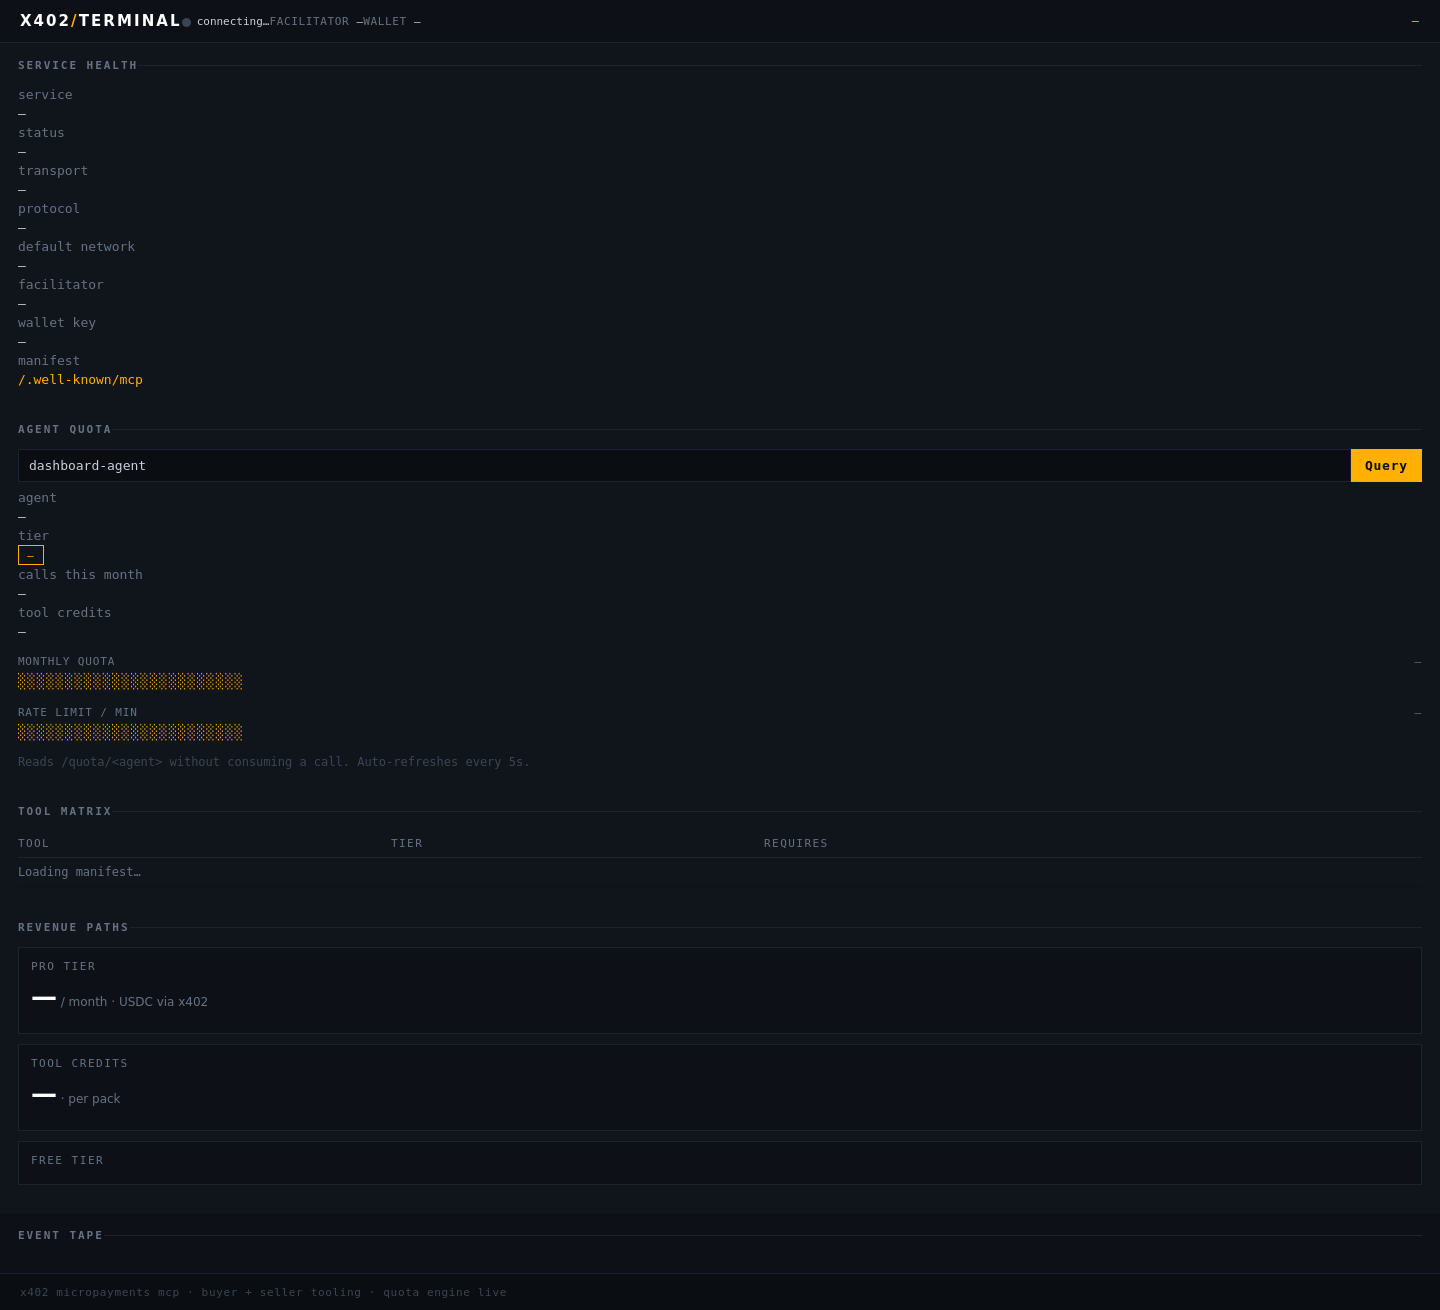
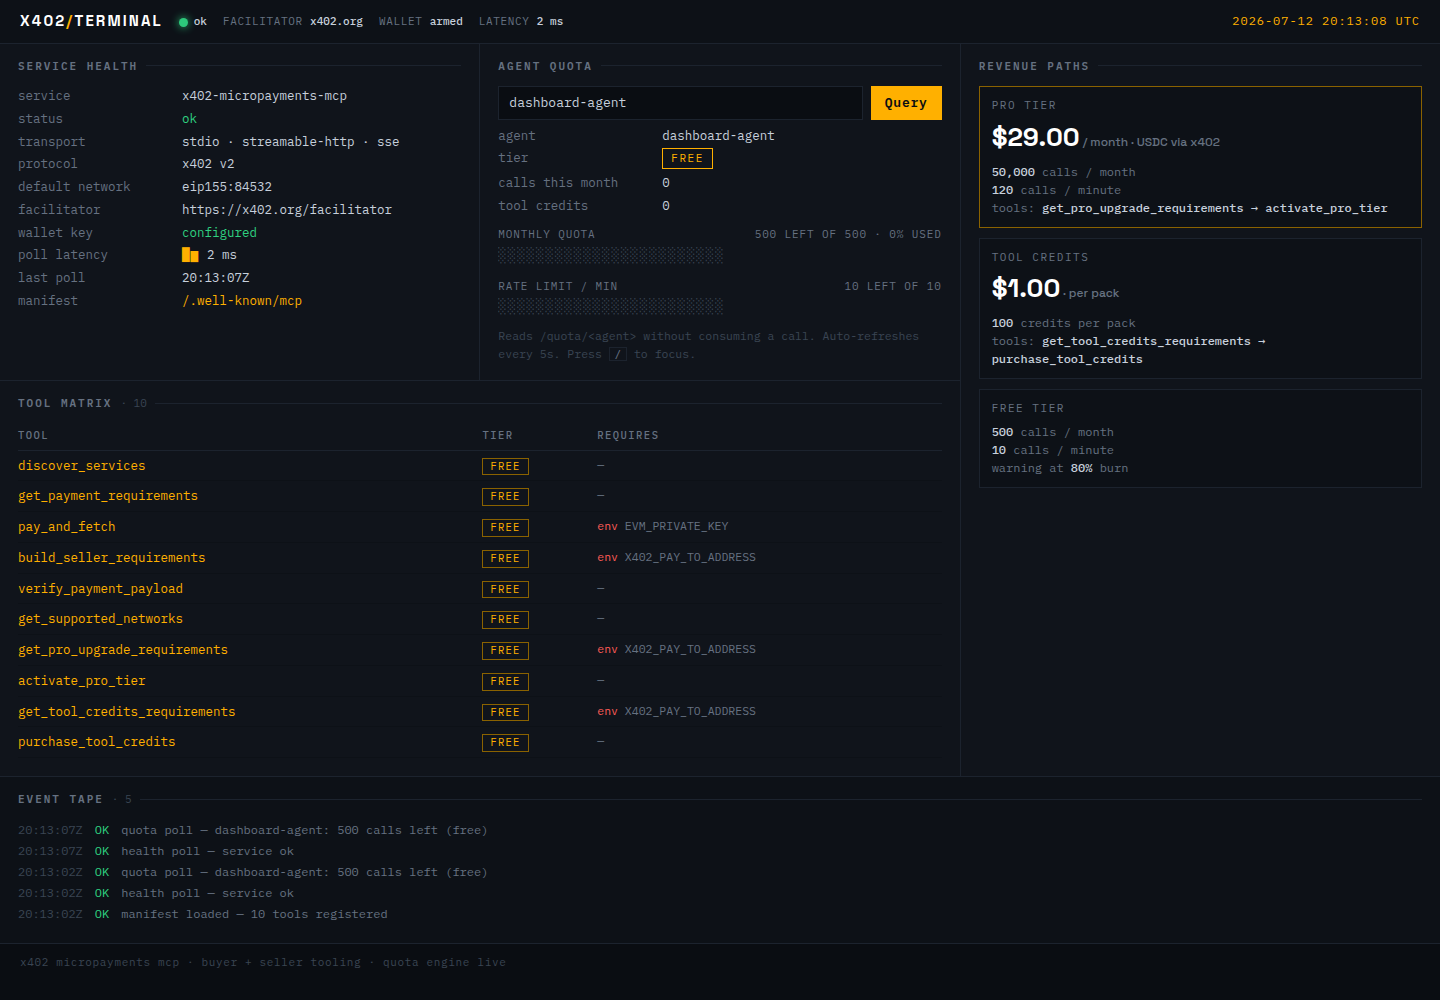
feat(dashboard): live latency sparkline, manifest-driven tier thresholds, UX polish
- Time /health polls; show latency in header plus block-character sparkline
  and last-poll timestamp in Service Health
- Read rate-limit totals and quota warning threshold from manifest tiers per
  the queried agent's tier (was hardcoded free-tier values), so meters stay
  correct after pro upgrade
- Meters gain half-step resolution and percent-used readout
- Tool matrix: colored tier chips, tool count, row hover
- Event tape: pause-on-hover with buffered flush, event counter
- Offline state dims the board; '/' focuses agent input; refreshed
  dashboard_preview.png from live render

diff --git a/app/dashboard.py b/app/dashboard.py
@@ -2,7 +2,9 @@
 
 Zero build step: inline CSS/JS, polls the live API (/health, /quota/{agent},
 /.well-known/mcp, /upgrade). Amber-on-ink Bloomberg-terminal lineage; block
-character meters; live event tape driven by real polling events.
+character meters and sparklines; live event tape driven by real polling events.
+Tier thresholds (rate limit, quota warning) come from the manifest, not
+hardcoded — the UI adapts when the agent upgrades to pro.
 """
 
 DASHBOARD_HTML = r"""<!DOCTYPE html>
@@ -10,6 +12,7 @@ DASHBOARD_HTML = r"""<!DOCTYPE html>
 <head>
 <meta charset="utf-8">
 <meta name="viewport" content="width=device-width, initial-scale=1">
+<meta name="color-scheme" content="dark">
 <title>x402 terminal</title>
 <link rel="preconnect" href="https://fonts.googleapis.com">
 <link rel="preconnect" href="https://fonts.gstatic.com" crossorigin>
@@ -47,10 +50,14 @@ header{
 .lamp.ok{background:var(--green);box-shadow:0 0 8px var(--green);animation:pulse 2.4s infinite}
 .lamp.err{background:var(--red);box-shadow:0 0 8px var(--red)}
 @keyframes pulse{50%{opacity:.55}}
-@media (prefers-reduced-motion:reduce){.lamp.ok{animation:none}.tape-line{animation:none!important}}
+@media (prefers-reduced-motion:reduce){.lamp.ok{animation:none}.tape-line{animation:none!important}body.offline main{transition:none}}
 .bar-item{color:var(--dim);font-size:11px;letter-spacing:.06em;text-transform:uppercase}
 .bar-item strong{color:var(--text);font-weight:500;text-transform:none;letter-spacing:0}
 #clock{margin-left:auto;color:var(--amber);font-size:12px;letter-spacing:.08em}
+
+/* offline: dim the board, keep the header readable */
+body.offline main{opacity:.45;transition:opacity .4s ease}
+body.offline #svc-status{color:var(--red)}
 
 /* ---- grid ---- */
 main{display:grid;gap:1px;background:var(--line);
@@ -70,12 +77,14 @@ section{background:var(--panel);padding:14px 18px 18px;min-width:0}
 h2{font-size:11px;font-weight:600;letter-spacing:.18em;text-transform:uppercase;
   color:var(--dim);margin-bottom:12px;display:flex;align-items:center;gap:8px}
 h2::after{content:"";flex:1;height:1px;background:var(--line)}
+h2 .count{color:var(--faint);letter-spacing:0;font-weight:400}
 
 /* ---- key/value rows ---- */
 .kv{display:grid;grid-template-columns:150px 1fr;gap:4px 14px;font-size:12.5px}
 .kv dt{color:var(--dim)}
 .kv dd{color:var(--text);overflow-wrap:anywhere}
 .kv dd.on{color:var(--green)} .kv dd.off{color:var(--red)}
+.spark{color:var(--amber);letter-spacing:1px;margin-right:8px}
 
 /* ---- quota meters ---- */
 .meter-label{display:flex;justify-content:space-between;color:var(--dim);
@@ -94,6 +103,7 @@ h2::after{content:"";flex:1;height:1px;background:var(--line)}
   font-weight:600;padding:6px 14px;cursor:pointer;letter-spacing:.06em}
 .agent-row button:hover{background:#ffc233}
 .hint{color:var(--faint);font-size:11.5px;margin-top:10px}
+.hint kbd{border:1px solid var(--line);padding:0 5px;font-size:10.5px;color:var(--dim)}
 
 /* ---- tools table ---- */
 table{width:100%;border-collapse:collapse;font-size:12.5px}
@@ -101,14 +111,19 @@ th{color:var(--dim);font-weight:500;text-align:left;font-size:10.5px;
   letter-spacing:.14em;text-transform:uppercase;padding:4px 10px 6px 0;
   border-bottom:1px solid var(--line)}
 td{padding:5px 10px 5px 0;border-bottom:1px solid var(--panel-2);vertical-align:top}
+tbody tr:hover td{background:rgba(255,176,0,.05)}
 td.tool{color:var(--amber)}
 td.env{color:var(--dim);font-size:11.5px}
 td .req{color:var(--red)}
+.chip{display:inline-block;border:1px solid var(--amber-dim);color:var(--amber);
+  padding:0 7px;font-size:10.5px;letter-spacing:.12em;text-transform:uppercase}
+.chip.pro{border-color:var(--green);color:var(--green)}
 
 /* ---- revenue panel ---- */
 .price{font-family:"Space Grotesk",sans-serif;font-weight:700;font-size:26px;color:#fff}
 .price small{font-size:12px;color:var(--dim);font-weight:500}
 .rev-block{border:1px solid var(--line);padding:10px 12px;margin-bottom:10px;background:var(--panel-2)}
+.rev-block.featured{border-color:var(--amber-dim)}
 .rev-block .name{font-size:11px;letter-spacing:.14em;text-transform:uppercase;color:var(--dim);margin-bottom:4px}
 .rev-block ul{list-style:none;margin-top:6px;font-size:12px;color:var(--dim)}
 .rev-block li b{color:var(--text);font-weight:500}
@@ -120,6 +135,7 @@ td .req{color:var(--red)}
 .tape-line .t{color:var(--faint)}
 .tape-line .ok{color:var(--green)} .tape-line .err{color:var(--red)}
 .tape-line .msg{color:var(--dim)}
+#tape-paused{color:var(--amber);font-size:10px;letter-spacing:.14em;display:none}
 footer{padding:10px 20px;color:var(--faint);font-size:11px;letter-spacing:.06em}
 </style>
 </head>
@@ -129,6 +145,7 @@ footer{padding:10px 20px;color:var(--faint);font-size:11px;letter-spacing:.06em}
   <span class="bar-item"><span id="lamp" class="lamp"></span><strong id="svc-status">connecting…</strong></span>
   <span class="bar-item">facilitator <strong id="bar-facilitator">—</strong></span>
   <span class="bar-item">wallet <strong id="bar-wallet">—</strong></span>
+  <span class="bar-item">latency <strong id="bar-latency">—</strong></span>
   <span id="clock">—</span>
 </header>
 
@@ -143,6 +160,8 @@ footer{padding:10px 20px;color:var(--faint);font-size:11px;letter-spacing:.06em}
       <dt>default network</dt><dd id="h-network">—</dd>
       <dt>facilitator</dt><dd id="h-facilitator">—</dd>
       <dt>wallet key</dt><dd id="h-wallet">—</dd>
+      <dt>poll latency</dt><dd><span id="h-spark" class="spark" aria-hidden="true"></span><span id="h-latency">—</span></dd>
+      <dt>last poll</dt><dd id="h-lastpoll">—</dd>
       <dt>manifest</dt><dd><a href="/.well-known/mcp">/.well-known/mcp</a></dd>
     </dl>
   </section>
@@ -163,11 +182,11 @@ footer{padding:10px 20px;color:var(--faint);font-size:11px;letter-spacing:.06em}
     <div class="meter" id="q-quota-meter" aria-hidden="true">░░░░░░░░░░░░░░░░░░░░░░░░</div>
     <div class="meter-label"><span>Rate limit / min</span><span id="q-rate-num">—</span></div>
     <div class="meter" id="q-rate-meter" aria-hidden="true">░░░░░░░░░░░░░░░░░░░░░░░░</div>
-    <p class="hint">Reads /quota/&lt;agent&gt; without consuming a call. Auto-refreshes every 5s.</p>
+    <p class="hint">Reads /quota/&lt;agent&gt; without consuming a call. Auto-refreshes every 5s. Press <kbd>/</kbd> to focus.</p>
   </section>
 
   <section id="p-tools">
-    <h2>Tool matrix</h2>
+    <h2>Tool matrix <span class="count" id="tools-count"></span></h2>
     <table>
       <thead><tr><th>Tool</th><th>Tier</th><th>Requires</th></tr></thead>
       <tbody id="tools-body"><tr><td class="env" colspan="3">Loading manifest…</td></tr></tbody>
@@ -176,7 +195,7 @@ footer{padding:10px 20px;color:var(--faint);font-size:11px;letter-spacing:.06em}
 
   <section id="p-rev">
     <h2>Revenue paths</h2>
-    <div class="rev-block">
+    <div class="rev-block featured">
       <div class="name">Pro tier</div>
       <div class="price" id="r-pro-price">—<small> / month · USDC via x402</small></div>
       <ul id="r-pro-list"></ul>
@@ -193,7 +212,7 @@ footer{padding:10px 20px;color:var(--faint);font-size:11px;letter-spacing:.06em}
   </section>
 
   <section id="p-tape">
-    <h2>Event tape</h2>
+    <h2>Event tape <span class="count" id="tape-count"></span> <span id="tape-paused">⏸ paused</span></h2>
     <div id="tape" role="log" aria-live="polite"></div>
   </section>
 </main>
@@ -203,23 +222,62 @@ footer{padding:10px 20px;color:var(--faint);font-size:11px;letter-spacing:.06em}
 "use strict";
 const $ = (id) => document.getElementById(id);
 const BLOCKS = 24;
+const SPARK_CHARS = "▁▂▃▄▅▆▇█";
+const SPARK_LEN = 20;
 
-function tape(kind, msg){
+/* ---- event tape (pauses while hovered so lines can be read/copied) ---- */
+let tapeTotal = 0, tapePaused = false;
+const tapeBuffer = [];
+
+function tapeLine(kind, msg, ts){
   const line = document.createElement("div");
   line.className = "tape-line";
-  const t = new Date().toISOString().slice(11,19);
-  line.innerHTML = `<span class="t">${t}Z</span><span class="${kind}">${kind === "ok" ? "OK " : "ERR"}</span><span class="msg"></span>`;
+  line.innerHTML = `<span class="t">${ts}Z</span><span class="${kind}">${kind === "ok" ? "OK " : "ERR"}</span><span class="msg"></span>`;
   line.querySelector(".msg").textContent = msg;
   const el = $("tape");
   el.prepend(line);
   while (el.children.length > 60) el.removeChild(el.lastChild);
 }
 
-function meter(el, used, total){
+function tape(kind, msg){
+  tapeTotal += 1;
+  $("tape-count").textContent = `· ${tapeTotal}`;
+  const ts = new Date().toISOString().slice(11,19);
+  if (tapePaused){ tapeBuffer.push([kind, msg, ts]); return; }
+  tapeLine(kind, msg, ts);
+}
+
+$("tape").addEventListener("mouseenter", () => {
+  tapePaused = true;
+  $("tape-paused").style.display = "inline";
+});
+$("tape").addEventListener("mouseleave", () => {
+  tapePaused = false;
+  $("tape-paused").style.display = "none";
+  while (tapeBuffer.length) tapeLine(...tapeBuffer.shift());
+});
+
+/* ---- block meters (half-step resolution via ▒) ---- */
+function meter(el, used, total, warnAt){
   const safeTotal = Math.max(total, 1);
-  const filled = Math.min(BLOCKS, Math.round((used / safeTotal) * BLOCKS));
-  el.innerHTML = "▓".repeat(filled) + `<span class="rest">${"░".repeat(BLOCKS - filled)}</span>`;
-  el.classList.toggle("hot", used / safeTotal >= 0.8);
+  const exact = Math.min(1, used / safeTotal) * BLOCKS;
+  const filled = Math.floor(exact);
+  const half = exact - filled >= 0.5 && filled < BLOCKS ? 1 : 0;
+  el.innerHTML = "▓".repeat(filled) + "▒".repeat(half)
+    + `<span class="rest">${"░".repeat(BLOCKS - filled - half)}</span>`;
+  el.classList.toggle("hot", used / safeTotal >= (warnAt ?? 0.8));
+}
+
+/* ---- latency sparkline ---- */
+const latencies = [];
+function spark(ms){
+  latencies.push(ms);
+  if (latencies.length > SPARK_LEN) latencies.shift();
+  const max = Math.max(...latencies, 1);
+  $("h-spark").textContent = latencies
+    .map(v => SPARK_CHARS[Math.min(7, Math.round((v / max) * 7))]).join("");
+  $("h-latency").textContent = `${Math.round(ms)} ms`;
+  $("bar-latency").textContent = `${Math.round(ms)} ms`;
 }
 
 async function getJSON(path){
@@ -229,8 +287,11 @@ async function getJSON(path){
 }
 
 async function pollHealth(){
+  const t0 = performance.now();
   try{
     const h = await getJSON("/health");
+    spark(performance.now() - t0);
+    document.body.classList.remove("offline");
     $("lamp").className = "lamp ok";
     $("svc-status").textContent = h.status;
     $("h-service").textContent = h.service;
@@ -242,13 +303,18 @@ async function pollHealth(){
     $("h-wallet").textContent = w ? "configured" : "not configured (probe-only)";
     $("h-wallet").className = w ? "on" : "off";
     $("bar-wallet").textContent = w ? "armed" : "probe-only";
+    $("h-lastpoll").textContent = new Date().toISOString().slice(11,19) + "Z";
     tape("ok", "health poll — service ok");
   }catch(e){
+    document.body.classList.add("offline");
     $("lamp").className = "lamp err";
     $("svc-status").textContent = "unreachable";
     tape("err", e.message);
   }
 }
+
+/* tier config from the manifest; per-tier limits drive the meters */
+let tiers = null;
 
 async function pollQuota(){
   const agent = $("agent-input").value.trim();
@@ -260,12 +326,14 @@ async function pollQuota(){
     $("q-tier").className = "tier-badge" + (meta.tier === "pro" ? " pro" : "");
     $("q-calls").textContent = meta.calls_this_month;
     $("q-credits").textContent = meta.tool_credits_remaining;
+    const tier = tiers?.[meta.tier];
+    const warnAt = tier?.quota_warning_threshold ?? 0.8;
     const total = meta.calls_this_month + meta.quota_remaining;
-    $("q-quota-num").textContent = `${meta.quota_remaining} left of ${total}`;
-    meter($("q-quota-meter"), meta.calls_this_month, total);
-    const rateTotal = window.__rateLimit || meta.rate_limit_remaining;
-    $("q-rate-num").textContent = `${meta.rate_limit_remaining} left`;
-    meter($("q-rate-meter"), rateTotal - meta.rate_limit_remaining, rateTotal);
+    $("q-quota-num").textContent = `${meta.quota_remaining} left of ${total} · ${Math.round((meta.calls_this_month / Math.max(total,1)) * 100)}% used`;
+    meter($("q-quota-meter"), meta.calls_this_month, total, warnAt);
+    const rateTotal = tier?.rate_limit_per_minute ?? meta.rate_limit_remaining;
+    $("q-rate-num").textContent = `${meta.rate_limit_remaining} left of ${rateTotal}`;
+    meter($("q-rate-meter"), rateTotal - meta.rate_limit_remaining, rateTotal, warnAt);
     tape("ok", `quota poll — ${meta.agent_id}: ${meta.quota_remaining} calls left (${meta.tier})`);
   }catch(e){ tape("err", e.message); }
 }
@@ -276,14 +344,15 @@ async function loadManifest(){
     $("h-transport").textContent = m.transport.join(" · ");
     $("h-protocol").textContent = `x402 ${m.x402.protocol_version}`;
     $("h-network").textContent = m.x402.default_network;
+    $("tools-count").textContent = `· ${m.tools.length}`;
     $("tools-body").innerHTML = m.tools.map(t => `
       <tr>
         <td class="tool">${t.name}</td>
-        <td>${t.tier}</td>
+        <td><span class="chip${t.tier === "pro" ? " pro" : ""}">${t.tier}</span></td>
         <td class="env">${t.requires_env ? `<span class="req">env</span> ${t.requires_env.join(", ")}` : "—"}</td>
       </tr>`).join("");
+    tiers = m.tiers;
     const free = m.tiers.free, pro = m.tiers.pro;
-    window.__rateLimit = free.rate_limit_per_minute;
     $("r-pro-price").firstChild.textContent = pro.price_x402;
     $("r-pro-list").innerHTML =
       `<li><b>${pro.monthly_quota.toLocaleString()}</b> calls / month</li>` +
@@ -314,9 +383,16 @@ function tick(){
 
 $("agent-go").addEventListener("click", pollQuota);
 $("agent-input").addEventListener("keydown", (e) => { if (e.key === "Enter") pollQuota(); });
+document.addEventListener("keydown", (e) => {
+  if (e.key === "/" && document.activeElement !== $("agent-input")){
+    e.preventDefault();
+    $("agent-input").focus();
+    $("agent-input").select();
+  }
+});
 
 tick(); setInterval(tick, 1000);
-loadManifest(); loadUpgrade(); pollHealth(); pollQuota();
+(async () => { await loadManifest(); loadUpgrade(); pollHealth(); pollQuota(); })();
 setInterval(pollHealth, 5000);
 setInterval(pollQuota, 5000);
 </script>